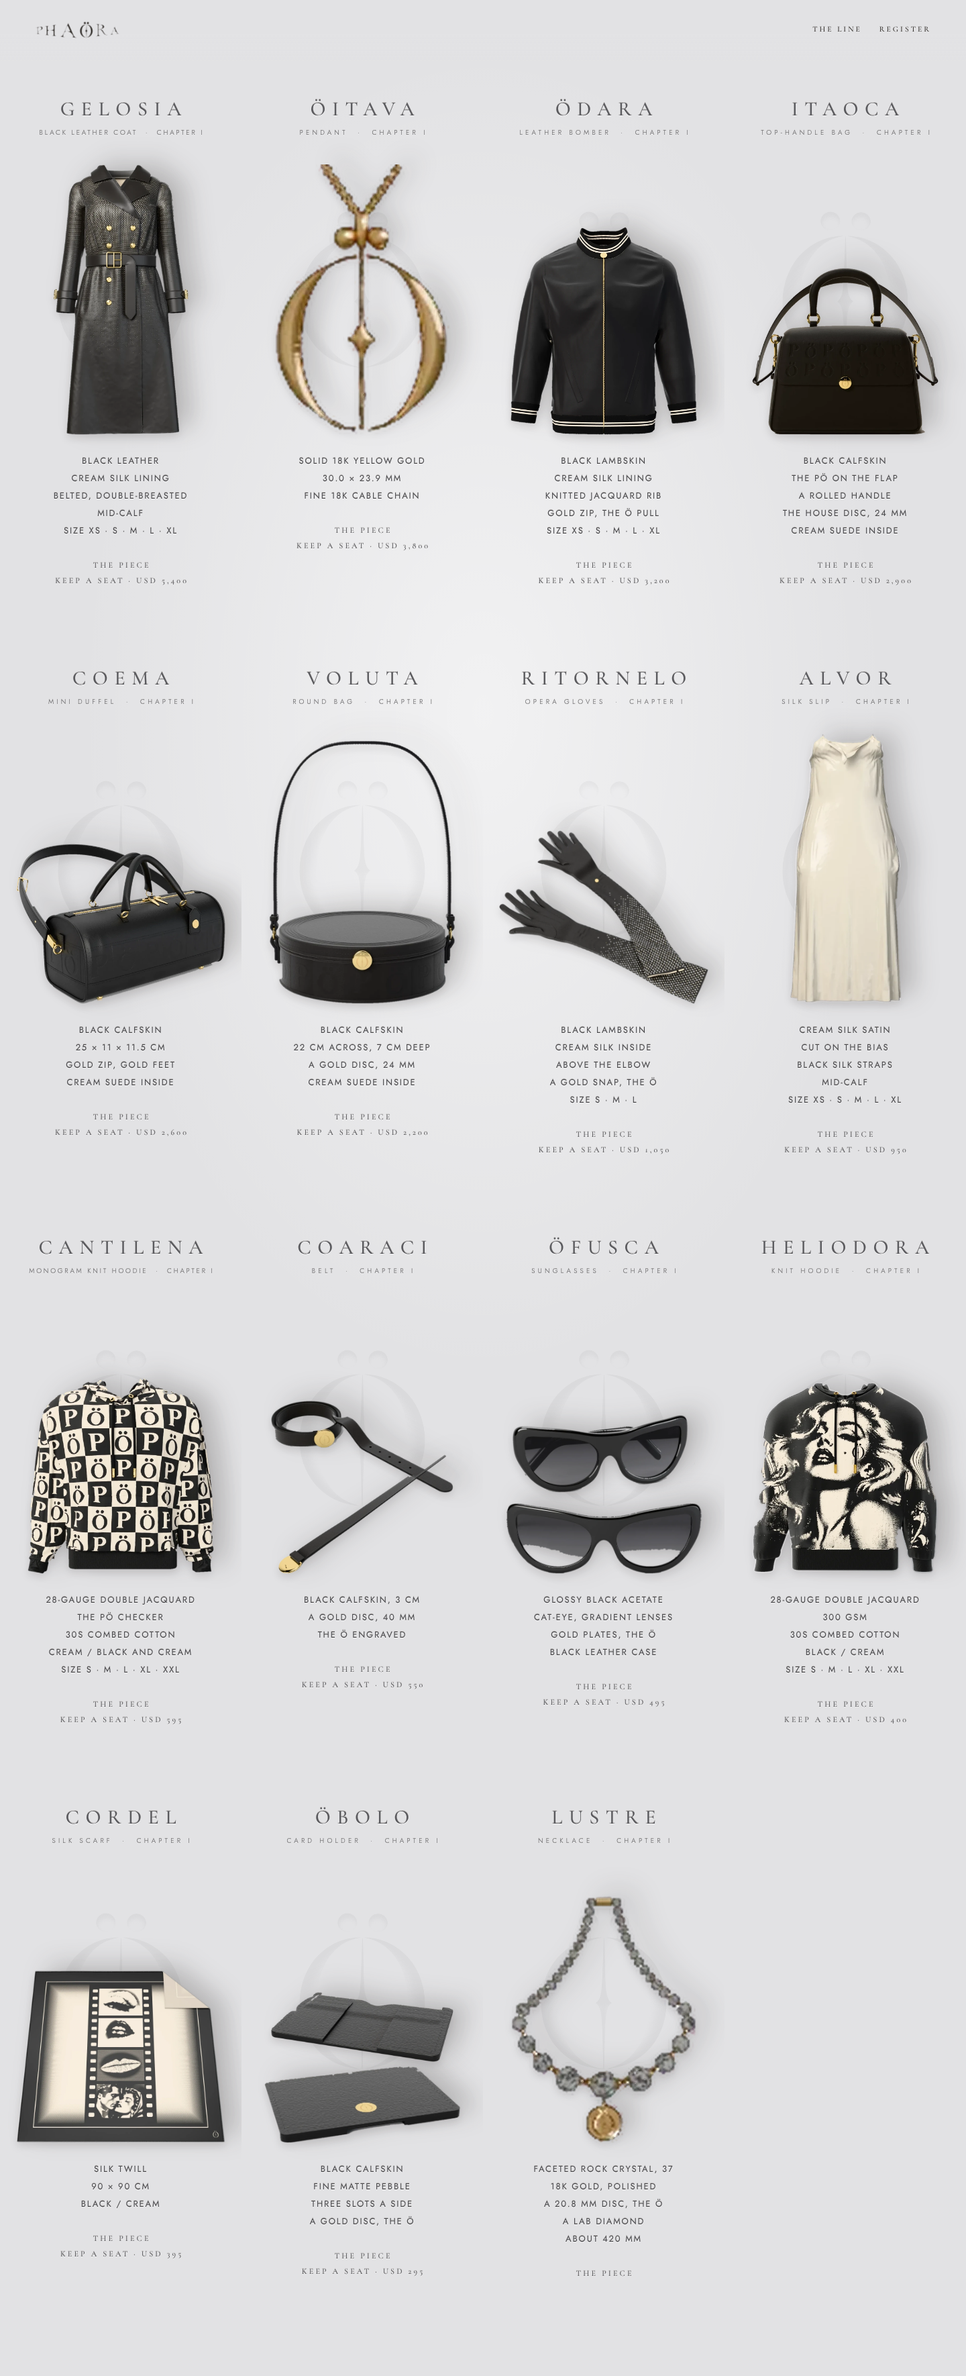
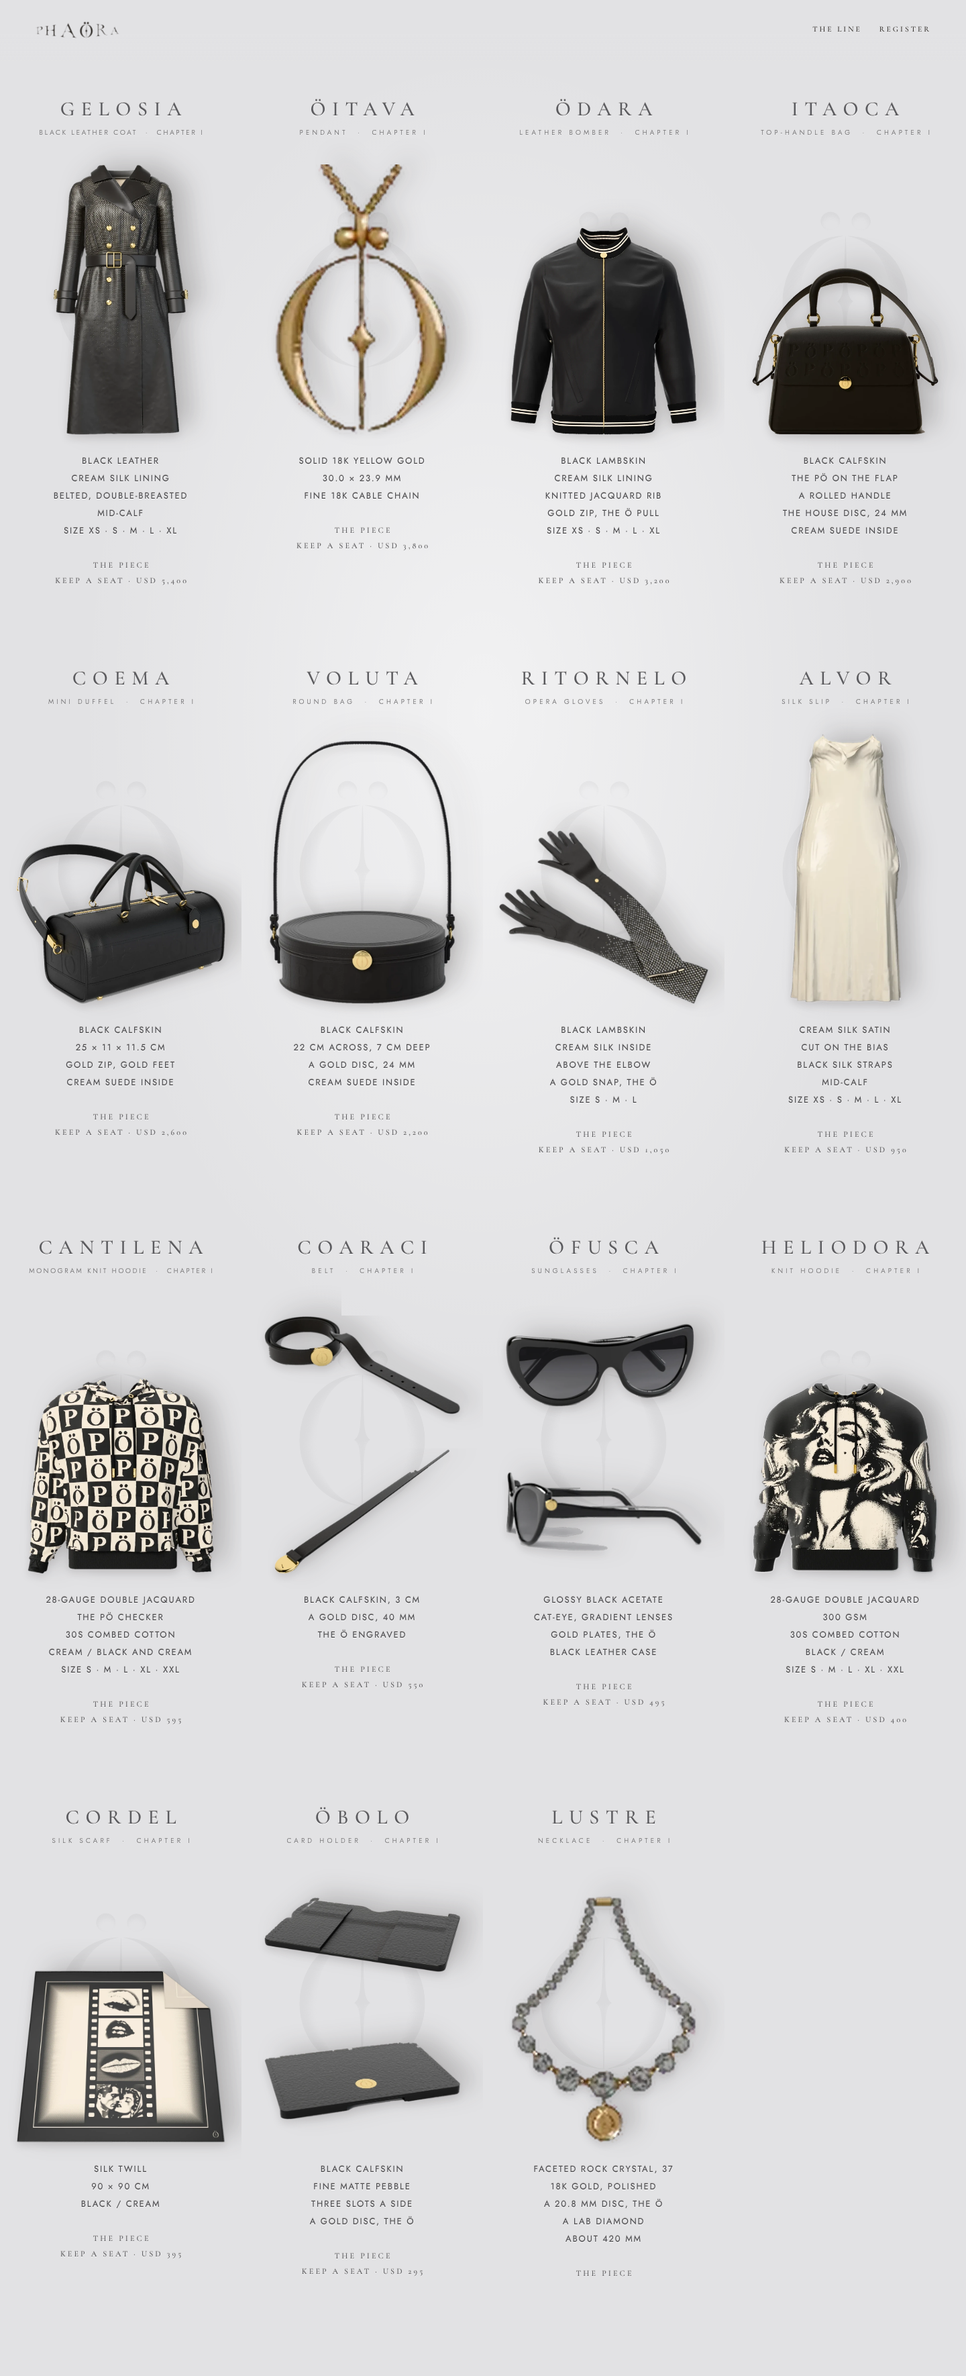
Catalogue: two-angle columns split into top and bottom halves; Öfusca front and side (the gold Ö on the temple)
Claude-Session: https://claude.ai/code/session_0133zY8WYR2Yz4VqDzteq4sV

diff --git a/chapter-1/index.html b/chapter-1/index.html
@@ -13,7 +13,7 @@
 <div class="top"></div>
 <a id="logo" href="#top" aria-label="PHAÖRA"></a>
 <nav id="sitenav"><a href="#top">The line</a><a href="/">Register</a></nav>
-<main class="cat"><article class="col" id="gelosia"><h2 class="t cut">GELOSIA</h2><p class="s cut long">BLACK LEATHER COAT &nbsp;·&nbsp; CHAPTER I</p><a class="ph" href="gelosia.html"><img src="assets/catalogue/veil_coat.webp" alt="Gelosia, black leather coat" loading="lazy" decoding="async"></a><ul class="specs cut"><li>BLACK LEATHER</li><li>CREAM SILK LINING</li><li>BELTED, DOUBLE-BREASTED</li><li>MID-CALF</li><li>SIZE  XS · S · M · L · XL</li></ul><p class="links cut"><a href="gelosia.html">The piece</a><a href="/">Keep a seat · USD 5,400</a></p></article><article class="col" id="oitava"><h2 class="t cut">ÖITAVA</h2><p class="s cut">PENDANT &nbsp;·&nbsp; CHAPTER I</p><a class="ph" href="oitava.html"><img src="assets/catalogue/oitava.webp" alt="Öitava, pendant" loading="lazy" decoding="async"></a><ul class="specs cut"><li>SOLID 18K YELLOW GOLD</li><li>30.0 × 23.9 MM</li><li>FINE 18K CABLE CHAIN</li></ul><p class="links cut"><a href="oitava.html">The piece</a><a href="/">Keep a seat · USD 3,800</a></p></article><article class="col" id="odara"><h2 class="t cut">ÖDARA</h2><p class="s cut">LEATHER BOMBER &nbsp;·&nbsp; CHAPTER I</p><a class="ph" href="odara.html"><img src="assets/catalogue/muse_bomber.webp" alt="Ödara, leather bomber" loading="lazy" decoding="async"></a><ul class="specs cut"><li>BLACK LAMBSKIN</li><li>CREAM SILK LINING</li><li>KNITTED JACQUARD RIB</li><li>GOLD ZIP, THE Ö PULL</li><li>SIZE  XS · S · M · L · XL</li></ul><p class="links cut"><a href="odara.html">The piece</a><a href="/">Keep a seat · USD 3,200</a></p></article><article class="col" id="itaoca"><h2 class="t cut">ITAOCA</h2><p class="s cut">TOP-HANDLE BAG &nbsp;·&nbsp; CHAPTER I</p><a class="ph" href="itaoca.html"><img src="assets/catalogue/po_tophandle.webp" alt="Itaoca, top-handle bag" loading="lazy" decoding="async"></a><ul class="specs cut"><li>BLACK CALFSKIN</li><li>THE PÖ ON THE FLAP</li><li>A ROLLED HANDLE</li><li>THE HOUSE DISC, 24 MM</li><li>CREAM SUEDE INSIDE</li></ul><p class="links cut"><a href="itaoca.html">The piece</a><a href="/">Keep a seat · USD 2,900</a></p></article><article class="col" id="coema"><h2 class="t cut">COEMA</h2><p class="s cut">MINI DUFFEL &nbsp;·&nbsp; CHAPTER I</p><a class="ph wide" href="coema.html"><img src="assets/catalogue/matinee.webp" alt="Coema, mini duffel" loading="lazy" decoding="async"></a><ul class="specs cut"><li>BLACK CALFSKIN</li><li>25 × 11 × 11.5 CM</li><li>GOLD ZIP, GOLD FEET</li><li>CREAM SUEDE INSIDE</li></ul><p class="links cut"><a href="coema.html">The piece</a><a href="/">Keep a seat · USD 2,600</a></p></article><article class="col" id="voluta"><h2 class="t cut">VOLUTA</h2><p class="s cut">ROUND BAG &nbsp;·&nbsp; CHAPTER I</p><a class="ph" href="voluta.html"><img src="assets/catalogue/the_reel.webp" alt="Voluta, round bag" loading="lazy" decoding="async"></a><ul class="specs cut"><li>BLACK CALFSKIN</li><li>22 CM ACROSS, 7 CM DEEP</li><li>A GOLD DISC, 24 MM</li><li>CREAM SUEDE INSIDE</li></ul><p class="links cut"><a href="voluta.html">The piece</a><a href="/">Keep a seat · USD 2,200</a></p></article><article class="col" id="ritornelo"><h2 class="t cut">RITORNELO</h2><p class="s cut">OPERA GLOVES &nbsp;·&nbsp; CHAPTER I</p><a class="ph wide" href="ritornelo.html"><img src="assets/catalogue/opera_gloves.webp" alt="Ritornelo, opera gloves" loading="lazy" decoding="async"></a><ul class="specs cut"><li>BLACK LAMBSKIN</li><li>CREAM SILK INSIDE</li><li>ABOVE THE ELBOW</li><li>A GOLD SNAP, THE Ö</li><li>SIZE  S · M · L</li></ul><p class="links cut"><a href="ritornelo.html">The piece</a><a href="/">Keep a seat · USD 1,050</a></p></article><article class="col" id="alvor"><h2 class="t cut">ALVOR</h2><p class="s cut">SILK SLIP &nbsp;·&nbsp; CHAPTER I</p><a class="ph" href="alvor.html"><img src="assets/catalogue/silk_slip.webp" alt="Alvor, silk slip" loading="lazy" decoding="async"></a><ul class="specs cut"><li>CREAM SILK SATIN</li><li>CUT ON THE BIAS</li><li>BLACK SILK STRAPS</li><li>MID-CALF</li><li>SIZE  XS · S · M · L · XL</li></ul><p class="links cut"><a href="alvor.html">The piece</a><a href="/">Keep a seat · USD 950</a></p></article><article class="col" id="cantilena"><h2 class="t cut">CANTILENA</h2><p class="s cut long">MONOGRAM KNIT HOODIE &nbsp;·&nbsp; CHAPTER I</p><a class="ph" href="cantilena.html"><img src="assets/catalogue/cantilena.webp" alt="Cantilena, monogram knit hoodie" loading="lazy" decoding="async"></a><ul class="specs cut"><li>28-GAUGE DOUBLE JACQUARD</li><li>THE PÖ CHECKER</li><li>30S COMBED COTTON</li><li>CREAM / BLACK AND CREAM</li><li>SIZE  S · M · L · XL · XXL</li></ul><p class="links cut"><a href="cantilena.html">The piece</a><a href="/">Keep a seat · USD 595</a></p></article><article class="col" id="coaraci"><h2 class="t cut">COARACI</h2><p class="s cut">BELT &nbsp;·&nbsp; CHAPTER I</p><a class="ph two" href="coaraci.html"><img class="a" src="assets/catalogue/disc_belt.webp" alt="Coaraci, belt" loading="lazy" decoding="async"><img class="b" src="assets/catalogue/disc_belt_straight.webp" alt="" loading="lazy" decoding="async"></a><ul class="specs cut"><li>BLACK CALFSKIN, 3 CM</li><li>A GOLD DISC, 40 MM</li><li>THE Ö ENGRAVED</li></ul><p class="links cut"><a href="coaraci.html">The piece</a><a href="/">Keep a seat · USD 550</a></p></article><article class="col" id="ofusca"><h2 class="t cut">ÖFUSCA</h2><p class="s cut">SUNGLASSES &nbsp;·&nbsp; CHAPTER I</p><a class="ph two" href="ofusca.html"><img class="a" src="assets/catalogue/sunglasses.webp" alt="Öfusca, sunglasses" loading="lazy" decoding="async"><img class="b" src="assets/catalogue/sunglasses_flat.webp" alt="" loading="lazy" decoding="async"></a><ul class="specs cut"><li>GLOSSY BLACK ACETATE</li><li>CAT-EYE, GRADIENT LENSES</li><li>GOLD PLATES, THE Ö</li><li>BLACK LEATHER CASE</li></ul><p class="links cut"><a href="ofusca.html">The piece</a><a href="/">Keep a seat · USD 495</a></p></article><article class="col" id="heliodora"><h2 class="t cut">HELIODORA</h2><p class="s cut">KNIT HOODIE &nbsp;·&nbsp; CHAPTER I</p><a class="ph" href="heliodora.html"><img src="assets/catalogue/muse_allover.webp" alt="Heliodora, knit hoodie" loading="lazy" decoding="async"></a><ul class="specs cut"><li>28-GAUGE DOUBLE JACQUARD</li><li>300 GSM</li><li>30S COMBED COTTON</li><li>BLACK / CREAM</li><li>SIZE  S · M · L · XL · XXL</li></ul><p class="links cut"><a href="heliodora.html">The piece</a><a href="/">Keep a seat · USD 400</a></p></article><article class="col" id="cordel"><h2 class="t cut">CORDEL</h2><p class="s cut">SILK SCARF &nbsp;·&nbsp; CHAPTER I</p><a class="ph wide" href="cordel.html"><img src="assets/catalogue/silk_scarf.webp" alt="Cordel, silk scarf" loading="lazy" decoding="async"></a><ul class="specs cut"><li>SILK TWILL</li><li>90 × 90 CM</li><li>BLACK / CREAM</li></ul><p class="links cut"><a href="cordel.html">The piece</a><a href="/">Keep a seat · USD 395</a></p></article><article class="col" id="obolo"><h2 class="t cut">ÖBOLO</h2><p class="s cut">CARD HOLDER &nbsp;·&nbsp; CHAPTER I</p><a class="ph two" href="obolo.html"><img class="a" src="assets/catalogue/card_holder.webp" alt="Öbolo, card holder" loading="lazy" decoding="async"><img class="b" src="assets/catalogue/card_holder_back.webp" alt="" loading="lazy" decoding="async"></a><ul class="specs cut"><li>BLACK CALFSKIN</li><li>FINE MATTE PEBBLE</li><li>THREE SLOTS A SIDE</li><li>A GOLD DISC, THE Ö</li></ul><p class="links cut"><a href="obolo.html">The piece</a><a href="/">Keep a seat · USD 295</a></p></article><article class="col" id="lustre"><h2 class="t cut">LUSTRE</h2><p class="s cut">NECKLACE &nbsp;·&nbsp; CHAPTER I</p><a class="ph" href="lustre.html"><img src="assets/catalogue/lustre.webp" alt="Lustre, necklace" loading="lazy" decoding="async"></a><ul class="specs cut"><li>FACETED ROCK CRYSTAL, 37</li><li>18K GOLD, POLISHED</li><li>A 20.8 MM DISC, THE Ö</li><li>A LAB DIAMOND</li><li>ABOUT 420 MM</li></ul><p class="links cut"><a href="lustre.html">The piece</a></p></article></main>
+<main class="cat"><article class="col" id="gelosia"><h2 class="t cut">GELOSIA</h2><p class="s cut long">BLACK LEATHER COAT &nbsp;·&nbsp; CHAPTER I</p><a class="ph" href="gelosia.html"><img src="assets/catalogue/veil_coat.webp" alt="Gelosia, black leather coat" loading="eager" decoding="async"></a><ul class="specs cut"><li>BLACK LEATHER</li><li>CREAM SILK LINING</li><li>BELTED, DOUBLE-BREASTED</li><li>MID-CALF</li><li>SIZE  XS · S · M · L · XL</li></ul><p class="links cut"><a href="gelosia.html">The piece</a><a href="/">Keep a seat · USD 5,400</a></p></article><article class="col" id="oitava"><h2 class="t cut">ÖITAVA</h2><p class="s cut">PENDANT &nbsp;·&nbsp; CHAPTER I</p><a class="ph" href="oitava.html"><img src="assets/catalogue/oitava.webp" alt="Öitava, pendant" loading="eager" decoding="async"></a><ul class="specs cut"><li>SOLID 18K YELLOW GOLD</li><li>30.0 × 23.9 MM</li><li>FINE 18K CABLE CHAIN</li></ul><p class="links cut"><a href="oitava.html">The piece</a><a href="/">Keep a seat · USD 3,800</a></p></article><article class="col" id="odara"><h2 class="t cut">ÖDARA</h2><p class="s cut">LEATHER BOMBER &nbsp;·&nbsp; CHAPTER I</p><a class="ph" href="odara.html"><img src="assets/catalogue/muse_bomber.webp" alt="Ödara, leather bomber" loading="eager" decoding="async"></a><ul class="specs cut"><li>BLACK LAMBSKIN</li><li>CREAM SILK LINING</li><li>KNITTED JACQUARD RIB</li><li>GOLD ZIP, THE Ö PULL</li><li>SIZE  XS · S · M · L · XL</li></ul><p class="links cut"><a href="odara.html">The piece</a><a href="/">Keep a seat · USD 3,200</a></p></article><article class="col" id="itaoca"><h2 class="t cut">ITAOCA</h2><p class="s cut">TOP-HANDLE BAG &nbsp;·&nbsp; CHAPTER I</p><a class="ph" href="itaoca.html"><img src="assets/catalogue/po_tophandle.webp" alt="Itaoca, top-handle bag" loading="eager" decoding="async"></a><ul class="specs cut"><li>BLACK CALFSKIN</li><li>THE PÖ ON THE FLAP</li><li>A ROLLED HANDLE</li><li>THE HOUSE DISC, 24 MM</li><li>CREAM SUEDE INSIDE</li></ul><p class="links cut"><a href="itaoca.html">The piece</a><a href="/">Keep a seat · USD 2,900</a></p></article><article class="col" id="coema"><h2 class="t cut">COEMA</h2><p class="s cut">MINI DUFFEL &nbsp;·&nbsp; CHAPTER I</p><a class="ph wide" href="coema.html"><img src="assets/catalogue/matinee.webp" alt="Coema, mini duffel" loading="eager" decoding="async"></a><ul class="specs cut"><li>BLACK CALFSKIN</li><li>25 × 11 × 11.5 CM</li><li>GOLD ZIP, GOLD FEET</li><li>CREAM SUEDE INSIDE</li></ul><p class="links cut"><a href="coema.html">The piece</a><a href="/">Keep a seat · USD 2,600</a></p></article><article class="col" id="voluta"><h2 class="t cut">VOLUTA</h2><p class="s cut">ROUND BAG &nbsp;·&nbsp; CHAPTER I</p><a class="ph" href="voluta.html"><img src="assets/catalogue/the_reel.webp" alt="Voluta, round bag" loading="eager" decoding="async"></a><ul class="specs cut"><li>BLACK CALFSKIN</li><li>22 CM ACROSS, 7 CM DEEP</li><li>A GOLD DISC, 24 MM</li><li>CREAM SUEDE INSIDE</li></ul><p class="links cut"><a href="voluta.html">The piece</a><a href="/">Keep a seat · USD 2,200</a></p></article><article class="col" id="ritornelo"><h2 class="t cut">RITORNELO</h2><p class="s cut">OPERA GLOVES &nbsp;·&nbsp; CHAPTER I</p><a class="ph wide" href="ritornelo.html"><img src="assets/catalogue/opera_gloves.webp" alt="Ritornelo, opera gloves" loading="eager" decoding="async"></a><ul class="specs cut"><li>BLACK LAMBSKIN</li><li>CREAM SILK INSIDE</li><li>ABOVE THE ELBOW</li><li>A GOLD SNAP, THE Ö</li><li>SIZE  S · M · L</li></ul><p class="links cut"><a href="ritornelo.html">The piece</a><a href="/">Keep a seat · USD 1,050</a></p></article><article class="col" id="alvor"><h2 class="t cut">ALVOR</h2><p class="s cut">SILK SLIP &nbsp;·&nbsp; CHAPTER I</p><a class="ph" href="alvor.html"><img src="assets/catalogue/silk_slip.webp" alt="Alvor, silk slip" loading="eager" decoding="async"></a><ul class="specs cut"><li>CREAM SILK SATIN</li><li>CUT ON THE BIAS</li><li>BLACK SILK STRAPS</li><li>MID-CALF</li><li>SIZE  XS · S · M · L · XL</li></ul><p class="links cut"><a href="alvor.html">The piece</a><a href="/">Keep a seat · USD 950</a></p></article><article class="col" id="cantilena"><h2 class="t cut">CANTILENA</h2><p class="s cut long">MONOGRAM KNIT HOODIE &nbsp;·&nbsp; CHAPTER I</p><a class="ph" href="cantilena.html"><img src="assets/catalogue/cantilena.webp" alt="Cantilena, monogram knit hoodie" loading="eager" decoding="async"></a><ul class="specs cut"><li>28-GAUGE DOUBLE JACQUARD</li><li>THE PÖ CHECKER</li><li>30S COMBED COTTON</li><li>CREAM / BLACK AND CREAM</li><li>SIZE  S · M · L · XL · XXL</li></ul><p class="links cut"><a href="cantilena.html">The piece</a><a href="/">Keep a seat · USD 595</a></p></article><article class="col" id="coaraci"><h2 class="t cut">COARACI</h2><p class="s cut">BELT &nbsp;·&nbsp; CHAPTER I</p><a class="ph two" href="coaraci.html"><img class="a" src="assets/catalogue/disc_belt.webp" alt="Coaraci, belt" loading="eager" decoding="async"><img class="b" src="assets/catalogue/disc_belt_straight.webp" alt="" loading="eager" decoding="async"></a><ul class="specs cut"><li>BLACK CALFSKIN, 3 CM</li><li>A GOLD DISC, 40 MM</li><li>THE Ö ENGRAVED</li></ul><p class="links cut"><a href="coaraci.html">The piece</a><a href="/">Keep a seat · USD 550</a></p></article><article class="col" id="ofusca"><h2 class="t cut">ÖFUSCA</h2><p class="s cut">SUNGLASSES &nbsp;·&nbsp; CHAPTER I</p><a class="ph two" href="ofusca.html"><img class="a" src="assets/catalogue/sunglasses.webp" alt="Öfusca, sunglasses" loading="eager" decoding="async"><img class="b" src="assets/catalogue/sunglasses_side.webp" alt="" loading="eager" decoding="async"></a><ul class="specs cut"><li>GLOSSY BLACK ACETATE</li><li>CAT-EYE, GRADIENT LENSES</li><li>GOLD PLATES, THE Ö</li><li>BLACK LEATHER CASE</li></ul><p class="links cut"><a href="ofusca.html">The piece</a><a href="/">Keep a seat · USD 495</a></p></article><article class="col" id="heliodora"><h2 class="t cut">HELIODORA</h2><p class="s cut">KNIT HOODIE &nbsp;·&nbsp; CHAPTER I</p><a class="ph" href="heliodora.html"><img src="assets/catalogue/muse_allover.webp" alt="Heliodora, knit hoodie" loading="eager" decoding="async"></a><ul class="specs cut"><li>28-GAUGE DOUBLE JACQUARD</li><li>300 GSM</li><li>30S COMBED COTTON</li><li>BLACK / CREAM</li><li>SIZE  S · M · L · XL · XXL</li></ul><p class="links cut"><a href="heliodora.html">The piece</a><a href="/">Keep a seat · USD 400</a></p></article><article class="col" id="cordel"><h2 class="t cut">CORDEL</h2><p class="s cut">SILK SCARF &nbsp;·&nbsp; CHAPTER I</p><a class="ph wide" href="cordel.html"><img src="assets/catalogue/silk_scarf.webp" alt="Cordel, silk scarf" loading="eager" decoding="async"></a><ul class="specs cut"><li>SILK TWILL</li><li>90 × 90 CM</li><li>BLACK / CREAM</li></ul><p class="links cut"><a href="cordel.html">The piece</a><a href="/">Keep a seat · USD 395</a></p></article><article class="col" id="obolo"><h2 class="t cut">ÖBOLO</h2><p class="s cut">CARD HOLDER &nbsp;·&nbsp; CHAPTER I</p><a class="ph two" href="obolo.html"><img class="a" src="assets/catalogue/card_holder.webp" alt="Öbolo, card holder" loading="eager" decoding="async"><img class="b" src="assets/catalogue/card_holder_back.webp" alt="" loading="eager" decoding="async"></a><ul class="specs cut"><li>BLACK CALFSKIN</li><li>FINE MATTE PEBBLE</li><li>THREE SLOTS A SIDE</li><li>A GOLD DISC, THE Ö</li></ul><p class="links cut"><a href="obolo.html">The piece</a><a href="/">Keep a seat · USD 295</a></p></article><article class="col" id="lustre"><h2 class="t cut">LUSTRE</h2><p class="s cut">NECKLACE &nbsp;·&nbsp; CHAPTER I</p><a class="ph" href="lustre.html"><img src="assets/catalogue/lustre.webp" alt="Lustre, necklace" loading="eager" decoding="async"></a><ul class="specs cut"><li>FACETED ROCK CRYSTAL, 37</li><li>18K GOLD, POLISHED</li><li>A 20.8 MM DISC, THE Ö</li><li>A LAB DIAMOND</li><li>ABOUT 420 MM</li></ul><p class="links cut"><a href="lustre.html">The piece</a></p></article></main>
 <script>
 // David's lettering with the solo Ö, inlined in the room's dark ink, as room.js does (never typed)
 fetch('assets/lettering-solo-offwhite.svg').then(r => r.text()).then(t => { document.getElementById('logo').innerHTML =

diff --git a/chapter-1/assets/css/catalogue.css b/chapter-1/assets/css/catalogue.css
@@ -23,8 +23,9 @@ a{color:inherit;text-decoration:none}
 .col .ph.wide img{max-width:96%}
 .col .ph.two{display:block}
 .col .ph.two img{position:absolute;left:50%;transform:translateX(-50%);object-fit:contain;object-position:50% 100%}
-.col .ph.two .a{bottom:30%;height:62%;max-width:84%}
-.col .ph.two .b{bottom:0;height:44%;max-width:90%}
+/* David, 15 Nov: "Divide them as I split it. Not on top of each other": the box in two halves, one angle in each */
+.col .ph.two .a{top:0;height:46%;max-width:90%;object-position:50% 50%}
+.col .ph.two .b{bottom:0;height:46%;max-width:90%;object-position:50% 50%}
 .col .specs{list-style:none;margin:0;padding:0;font:400 13px/2 'Jost','DejaVu Sans',sans-serif;letter-spacing:.14em;color:#48484c}   /* one step up and a touch darker (David, 15 Nov) */
 .col .links{margin-top:28px;display:flex;flex-direction:column;gap:2px;font:500 12px/1.75 'Cormorant Garamond','DejaVu Serif',serif;letter-spacing:.26em;padding-left:.26em;text-transform:uppercase}
 @media (max-width:1100px){.col .t{font-size:24px;letter-spacing:.26em}}

diff --git a/chapter-1/build.py b/chapter-1/build.py
@@ -632,9 +632,9 @@ def catalogue_home():
         links = f'<a href="{q["page"]}.html">The piece</a>' + (f'<a href="{REGISTER}">Keep a seat · {E(price)}</a>' if price and not q.get('nosale') else '')
         cols += (f'<article class="col" id="{q["page"]}"><h2 class="t cut">{E(q["name"].upper())}</h2>'
                  f'<p class="s cut{" long" if len(q["plain"]) > 16 else ""}">{E(q["plain"].upper())} &nbsp;·&nbsp; CHAPTER I</p>'
-                 + (f'<a class="ph two" href="{q["page"]}.html"><img class="a" src="{imgs[q["id"]][0]}" alt="{E(q["name"])}, {E(q["plain"].lower())}" loading="lazy" decoding="async">'
-                    f'<img class="b" src="{imgs[q["id"]][1]}" alt="" loading="lazy" decoding="async"></a>' if imgs[q['id']][1] else
-                    f'<a class="ph{" wide" if Image.open(HERE / imgs[q["id"]][0]).width > 1.15 * Image.open(HERE / imgs[q["id"]][0]).height else ""}" href="{q["page"]}.html"><img src="{imgs[q["id"]][0]}" alt="{E(q["name"])}, {E(q["plain"].lower())}" loading="lazy" decoding="async"></a>') +
+                 + (f'<a class="ph two" href="{q["page"]}.html"><img class="a" src="{imgs[q["id"]][0]}" alt="{E(q["name"])}, {E(q["plain"].lower())}" loading="eager" decoding="async">'
+                    f'<img class="b" src="{imgs[q["id"]][1]}" alt="" loading="eager" decoding="async"></a>' if imgs[q['id']][1] else
+                    f'<a class="ph{" wide" if Image.open(HERE / imgs[q["id"]][0]).width > 1.15 * Image.open(HERE / imgs[q["id"]][0]).height else ""}" href="{q["page"]}.html"><img src="{imgs[q["id"]][0]}" alt="{E(q["name"])}, {E(q["plain"].lower())}" loading="eager" decoding="async"></a>') +
                  f'<ul class="specs cut">' + ''.join(f'<li>{E(x)}</li>' for x in specs) + f'</ul><p class="links cut">{links}</p></article>')
     doc = f'''<!doctype html>
 <html lang="en" id="top"><head><meta charset="utf-8">

diff --git a/chapter-1/content.py b/chapter-1/content.py
@@ -652,4 +652,4 @@ DETAILS480 = {
 }
 
 # the catalogue: the small pieces carry two angles in their column, sharing one floor (David, 15 Nov). (second view)
-CAT_SECOND = {'disc_belt': 'straight', 'sunglasses': 'flat', 'card_holder': 'back'}   # Ritornelo reads better as its pair alone
+CAT_SECOND = {'disc_belt': 'straight', 'sunglasses': 'side', 'card_holder': 'back'}   # Öfusca: front and side, the gold Ö on the temple (David, 15 Nov)   # Ritornelo reads better as its pair alone
